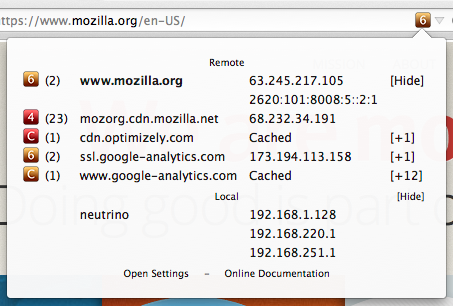
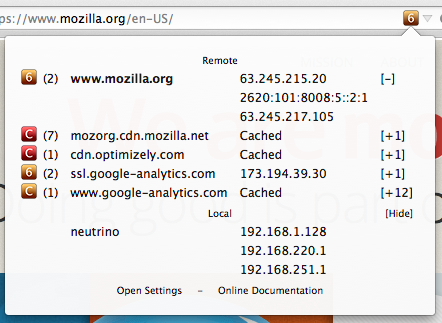
Update documentation

diff --git a/web/index.html b/web/index.html
@@ -72,7 +72,7 @@
 <li><b>Remote</b>
 <p>For each domain contacted to load the current page a listing appears in this section. The main domain of the site is displayed in bold text. The first IP address listed for each entry is the address the browser used to connect, the remaining addresses are those retrieved from DNS records for the domain.</p>
 
-<p>Subsequent entries in the list are for domains which additional resources have been loaded from, e.g. images from content delivery networks. Again, the first address is the actual connection, the rest are from DNS. You can click on the [+XX] link to expand DNS information for the secondary connections, and then click on the [Hide] link to hide them again. The number to the left of the domain indicates the total number of connections made to that domain while loading this page.</p>
+<p>Subsequent entries in the list are for domains which additional resources have been loaded from, e.g. images from content delivery networks. Again, the first address is the actual connection, the rest are from DNS. You can click on the [+XX] link to expand DNS information for the secondary connections, and then click on the [-] link to hide them again. The number to the left of the domain indicates the total number of connections made to that domain while loading this page.</p>
 
 </li>
 <li><b>Local</b>
@@ -126,9 +126,19 @@
 
     <p>These options can also be configured via the following boolean values in "about:config":</p>
 
-    <pre>extensions.sixornot.showaddressicon</pre>
-    <pre>extensions.sixornot.greyscaleicons</pre>
-    <pre>extensions.sixornot.showallips</pre>
+    <pre>extensions.sixornot.showaddressicon = false</pre>
+    <pre>extensions.sixornot.greyscaleicons = false</pre>
+    <pre>extensions.sixornot.showallips = false</pre>
+
+    <p>Additionally, the following settings in about:config may be useful:</p>
+
+    <pre>extensions.sixornot.loglevel = 0</pre>
+
+    <p>This sets the SixOrNot logging output level - default is 0 (only errors), 1, 2 and 3 provide increasingly verbose logging output. Useful if you encounter a bug and need to send the log output to help me diagnose it.</p>
+
+    <pre>extensions.sixornot.overridelocale</pre>
+
+    <p>SixOrNot will, by default, try to load a translation for its UI that matches your system (falling back to English if it doesn't have a matching locale). You can override this behaviour and set a locale string manually using this setting. E.g. to set it to use English, specify "en". Note: This setting does not affect translation of the settings panel.</p>
 
     <p>The other extensions.sixornot settings should not generally be changed manually.</p>
 
